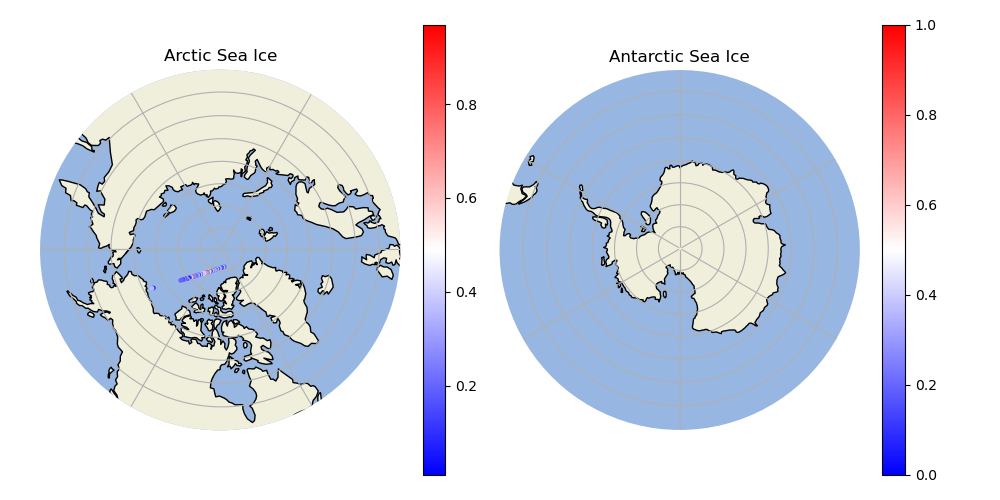
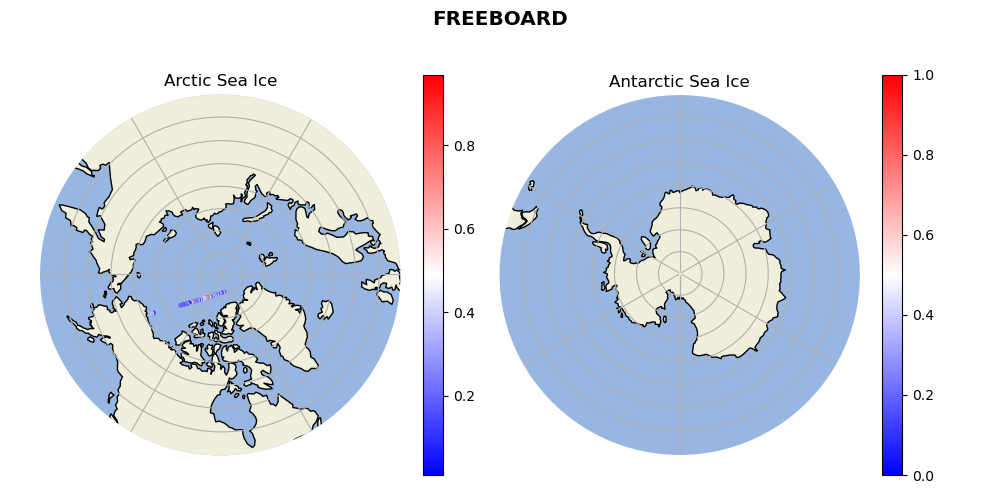
Added suptitle to the plot

diff --git a/practice_plotting/e3sm_data_practice_visualization.py b/practice_plotting/e3sm_data_practice_visualization.py
@@ -132,7 +132,7 @@ def generateNorthandSouthPoleMaps(fig, northMap, southMap, latCell, lonCell, var
     """ Generate 2 maps; one of the north pole and one of the south pole. """
 
     # Adjust the margins around the plots (as a fraction of the width or height).
-    fig.subplots_adjust(bottom=0.05, top=0.95, left=0.04, right=0.95, wspace=0.02)
+    fig.subplots_adjust(bottom=0.05, top=0.85, left=0.04, right=0.95, wspace=0.02)
 
     # Set your viewpoint (the bounding box for what you will see).
     # You want to see the full range of longitude values, since this is a polar plot.
@@ -157,12 +157,14 @@ def generateNorthandSouthPoleMaps(fig, northMap, southMap, latCell, lonCell, var
         plt.colorbar(northPoleScatter, ax=northMap)
         plt.colorbar(southPoleScatter, ax=southMap)
 
+    plt.suptitle(VARIABLETOPLOT.upper(), size="x-large", fontweight="bold")
+
     # Save the maps as an image.
     plt.savefig(mapImageFileName)
 
     return northPoleScatter, southPoleScatter
 
-def generateNorthPoleMap(fig, northMap, latCell, lonCell, variableToPlot1Day, mapImageFileName, colorBarOn=1, oceanFeature=1, landFeature=1, grid=1, coastlines=1):
+def generateNorthPoleMap(fig, northMap, latCell, lonCell, variableToPlot1Day, mapImageFileName, colorBarOn=1, oceanFeature=1, landFeature=1, grid=1, coastlines=1, dot_size=0.4):
     """ Generate one map of the north pole. """
 
     # Adjust the margins around the plots (as a fraction of the width or height).
@@ -180,11 +182,13 @@ def generateNorthPoleMap(fig, northMap, latCell, lonCell, variableToPlot1Day, ma
     northMap.set_boundary(makeCircle(), transform=northMap.transAxes)
 
     # Map thehemispheres.
-    scatter = mapHemisphere(latCell, lonCell, variableToPlot1Day, "n", "Arctic Sea Ice", northMap)     # Map northern hemisphere
+    scatter = mapHemisphere(latCell, lonCell, variableToPlot1Day, "n", "Arctic Sea Ice", northMap, dot_size)     # Map northern hemisphere
 
     # Set Color Bar
     if colorBarOn:
         plt.colorbar(scatter, ax=northMap)
+
+    plt.suptitle(VARIABLETOPLOT)
 
     # Save the maps as an image.
     plt.savefig(mapImageFileName)
@@ -193,12 +197,11 @@ def generateNorthPoleMap(fig, northMap, latCell, lonCell, variableToPlot1Day, ma
 
 def main():
 
-
     # Load the mesh and data to plot.
     latCell, lonCell = loadMesh(runDir, meshFileName)
     output = loadData(runDir, outputFileName)
     print("Days total: ", getNumberOfDays(output, keyVariableToPlot=VARIABLETOPLOT))
-    variableToPlot1Day = reduceToOneDay(output, keyVariableToPlot=VARIABLETOPLOT, dayNumber=1)
+    variableToPlot1Day = reduceToOneDay(output, keyVariableToPlot=VARIABLETOPLOT, dayNumber=0)
     
     # Plot the north and south poles
     fig, northMap, southMap = generateNorthandSouthPoleAxes()

diff --git a/practice_plotting/config.py b/practice_plotting/config.py
@@ -23,8 +23,8 @@ meshFileName   = r"\mesh_files\seaice.EC30to60E2r2.210210.nc"    # for 5 day and
 outputFileName = r"\satellite_data_preprocessed\icesat_E3SM_spring_2008_02_22_16.nc" # Satellite Track
 
 # Change these to save without overwriting your files
-animationFileName   = "satellite_track_2008_02_22_16_animation.gif"             # Should be a .gif extension
-mapImageFileName    = "satellite_track_2008_02_22_16.png"             # Should be a .png file extension
+animationFileName   = "satellite_track_2008_02_22_animation.gif"   # Should be a .gif extension
+mapImageFileName    = "satellite_track_2008_02_22.png"             # Should be a .png file extension
 
 # Constants
 MAXLONGITUDE    =  180

diff --git a/practice_plotting/plotting_track_animation.py b/practice_plotting/plotting_track_animation.py
@@ -23,6 +23,7 @@ def returnCellIndices(output):
     return indices.ravel()
 
 def getLatLon(output):
+    """ Pull the latitude and longitude variables from an .nc file. """
     latCell = output.variables["latitude"][:1]
     latCell = latCell.ravel()
     lonCell = output.variables["longitude"][:1]

diff --git a/practice_plotting/plotting_track_animation_over_full_day.py b/practice_plotting/plotting_track_animation_over_full_day.py
@@ -1,0 +1,12 @@
+
+# Work in progress
+
+import numpy as np
+import matplotlib.animation as animation
+from e3sm_data_practice_visualization import *
+
+import glob
+
+files = glob.glob('*.nc')
+
+print(files)
